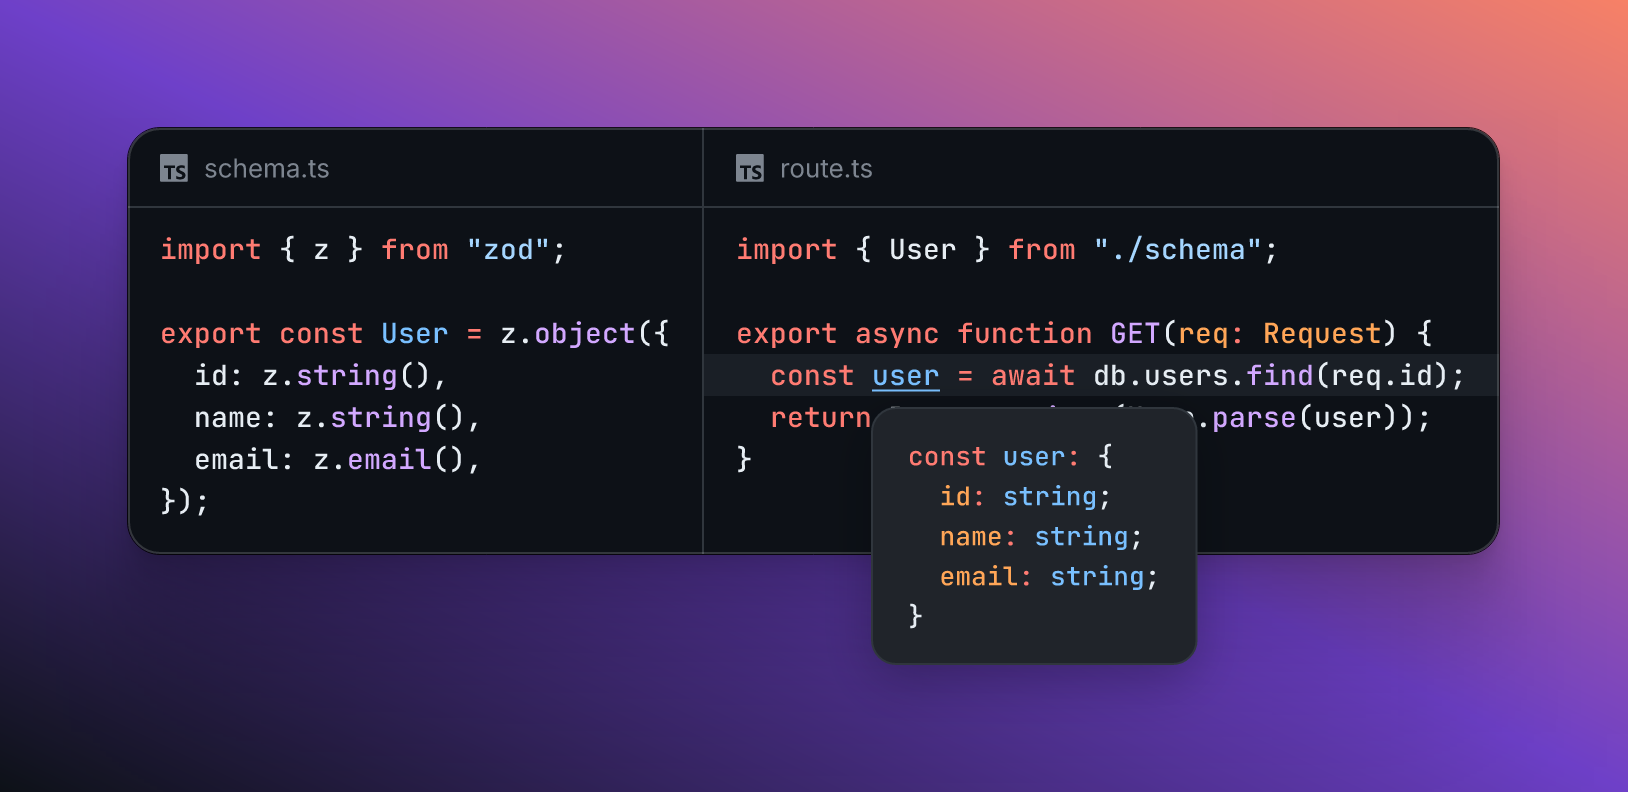
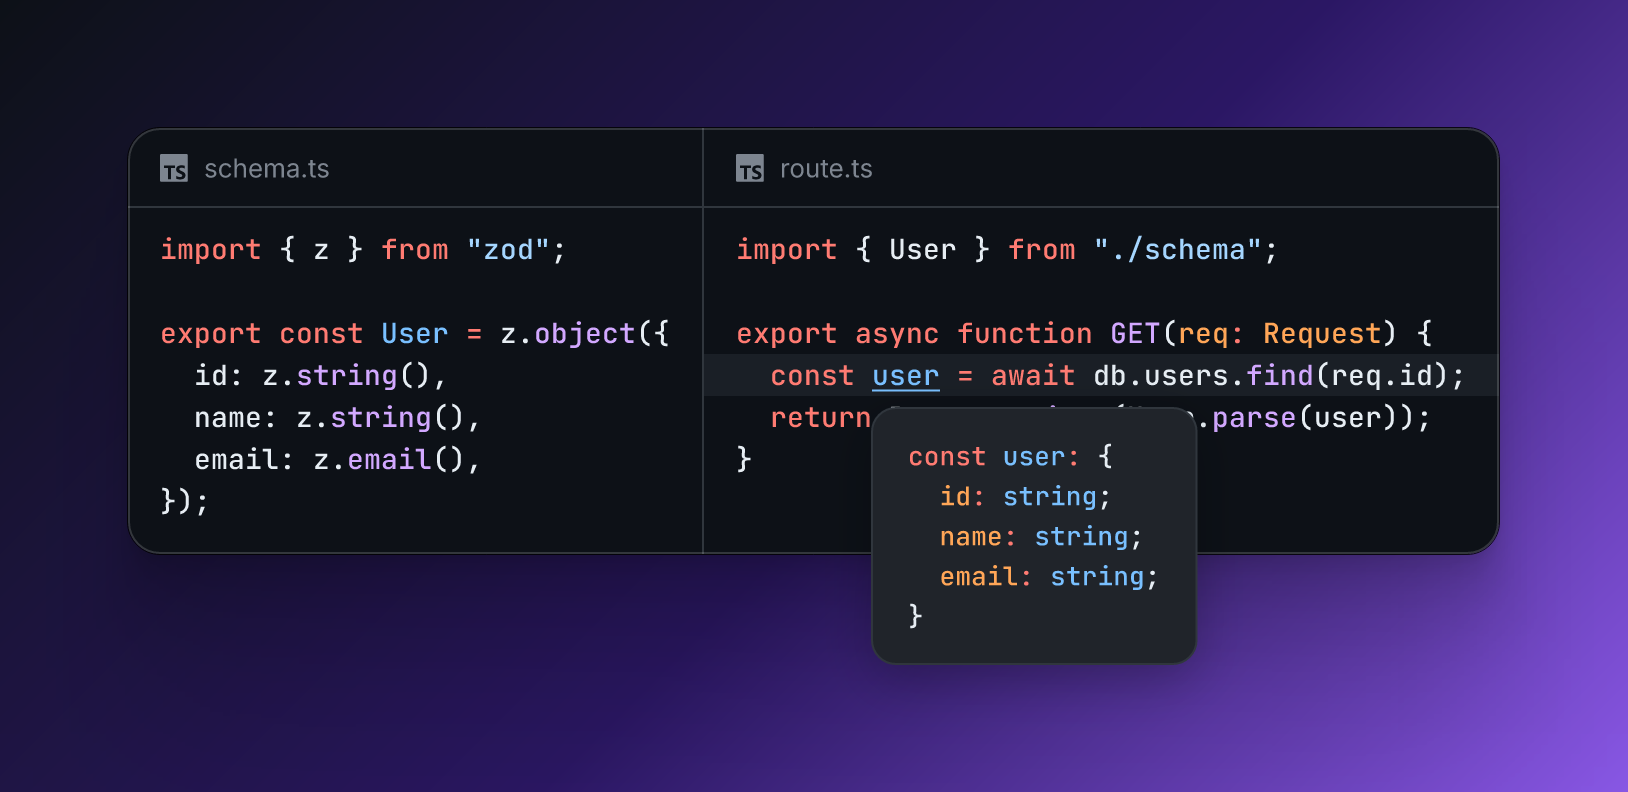
feat(core): Copilot background for GitHub dark and a Canvas preset
The GitHub theme in dark mode uses the new Copilot preset (GitHub's page color to purple) when the spec sets no background. Its orange corner made the Dusk gradient loud on the dark theme. Canvas is a new preset: one blue glow from the top on GitHub's page color.

diff --git a/packages/core/tests/render.test.ts b/packages/core/tests/render.test.ts
@@ -4,7 +4,7 @@ import { layout } from "../src/layout.ts";
 import { readImageSpec } from "../src/metadata.ts";
 import { render, renderScene } from "../src/node.ts";
 import { toSvg } from "../src/svg.ts";
-import { themeBackground } from "../src/backgrounds.ts";
+import { BACKGROUNDS, themeBackground } from "../src/backgrounds.ts";
 import { resolveMode, THEMES } from "../src/themes/index.ts";
 
 const FIXTURES = new URL("./fixtures/", import.meta.url);
@@ -592,6 +592,26 @@ describe("image background", () => {
       expect(svg).toContain(`stop-color="${glow}"`);
     },
   );
+
+  test("should draw the Copilot background for the GitHub theme in the dark mode by default", async () => {
+    // Arrange
+    const scene = await layout({ theme: "github", mode: "dark", windows });
+
+    // Act
+    const svg = toSvg(scene);
+
+    // Assert
+    expect(svg).toContain('stop-color="#2b1764"');
+    expect(svg).toContain('stop-color="#8957e5"');
+  });
+
+  test("should have the Canvas background preset", () => {
+    // Act
+    const preset = BACKGROUNDS.find((preset) => preset.id === "canvas");
+
+    // Assert
+    expect(preset?.css).toBe("radial-gradient(at 50% 0%, #1f6feb 0px, transparent 60%), #0d1117");
+  });
 
   test("should draw the background preset of the only mode of a theme", async () => {
     // Arrange

diff --git a/packages/core/src/backgrounds.ts b/packages/core/src/backgrounds.ts
@@ -154,6 +154,12 @@ export const BACKGROUNDS: Array<BackgroundPreset> = [
     css: "linear-gradient(135deg, #22d3ee 0%, #a5f3fc 55%, #ecfeff 100%)",
   },
   {
+    id: "canvas",
+    name: "Canvas",
+    kind: "mesh",
+    css: "radial-gradient(at 50% 0%, #1f6feb 0px, transparent 60%), #0d1117",
+  },
+  {
     id: "primer",
     name: "Primer",
     kind: "gradient",
@@ -218,6 +224,12 @@ export const BACKGROUNDS: Array<BackgroundPreset> = [
     css: "linear-gradient(to right top, #ffd8b5, #ffd8eb, #e9d8fd)",
   },
   {
+    id: "copilot",
+    name: "Copilot",
+    kind: "gradient",
+    css: "linear-gradient(135deg, #0d1117 0%, #2b1764 55%, #8957e5 100%)",
+  },
+  {
     id: "plum",
     name: "Plum",
     kind: "gradient",
@@ -273,7 +285,7 @@ const THEME_BACKGROUNDS: Record<string, Partial<Record<Mode, string>>> = {
   ayu: { dark: "ember", light: "honey" },
   catppuccin: { dark: "twilight", light: "lavender" },
   dracula: { dark: "mesh-orchid", light: "rose" },
-  github: { dark: "dusk", light: "sunrise" },
+  github: { dark: "copilot", light: "sunrise" },
   material: { dark: "slate", light: "ice" },
   "night-owl": { dark: "deep-sea", light: "ice" },
   nord: { dark: "nordic" },

diff --git a/README.md b/README.md
@@ -103,10 +103,10 @@ Show the reader where to look. Highlight full lines, or give any part of a line 
 ### Backgrounds
 
 <p align="center">
-  <img alt="The 55 background presets: colors, gradients and meshes" src="docs/images/backgrounds.png" width="860">
+  <img alt="The 57 background presets: colors, gradients and meshes" src="docs/images/backgrounds.png" width="860">
 </p>
 
-- 55 presets of colors, gradients and meshes, a color picker, and your own CSS linear or radial gradients.
+- 57 presets of colors, gradients and meshes, a color picker, and your own CSS linear or radial gradients.
 - An opacity slider, down to a transparent image.
 - Padding around the windows.
 
